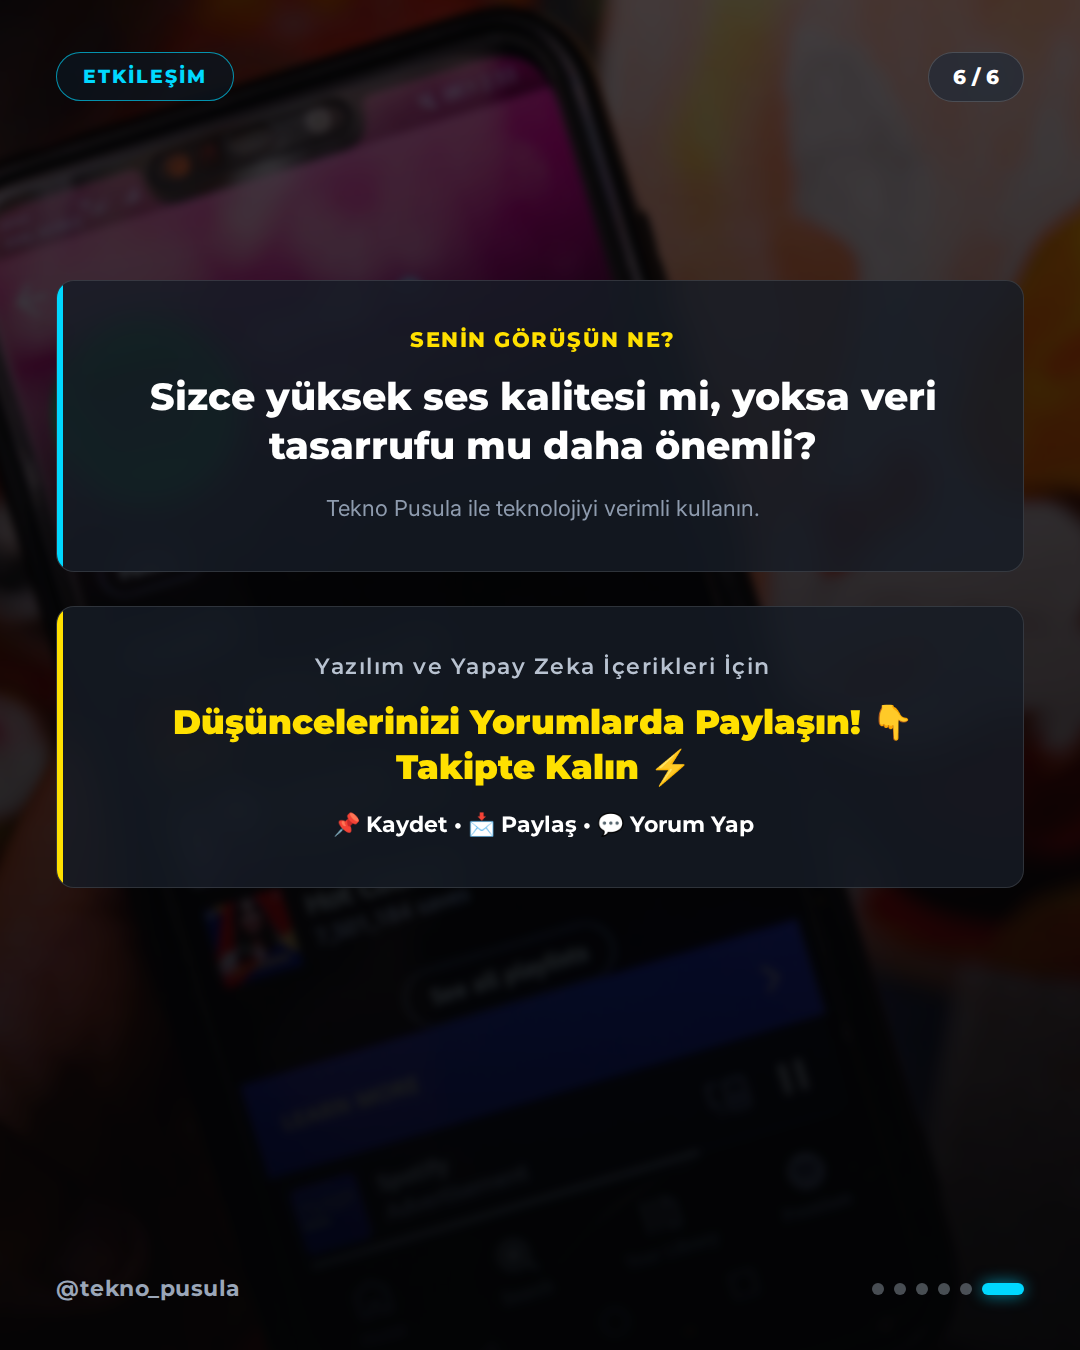
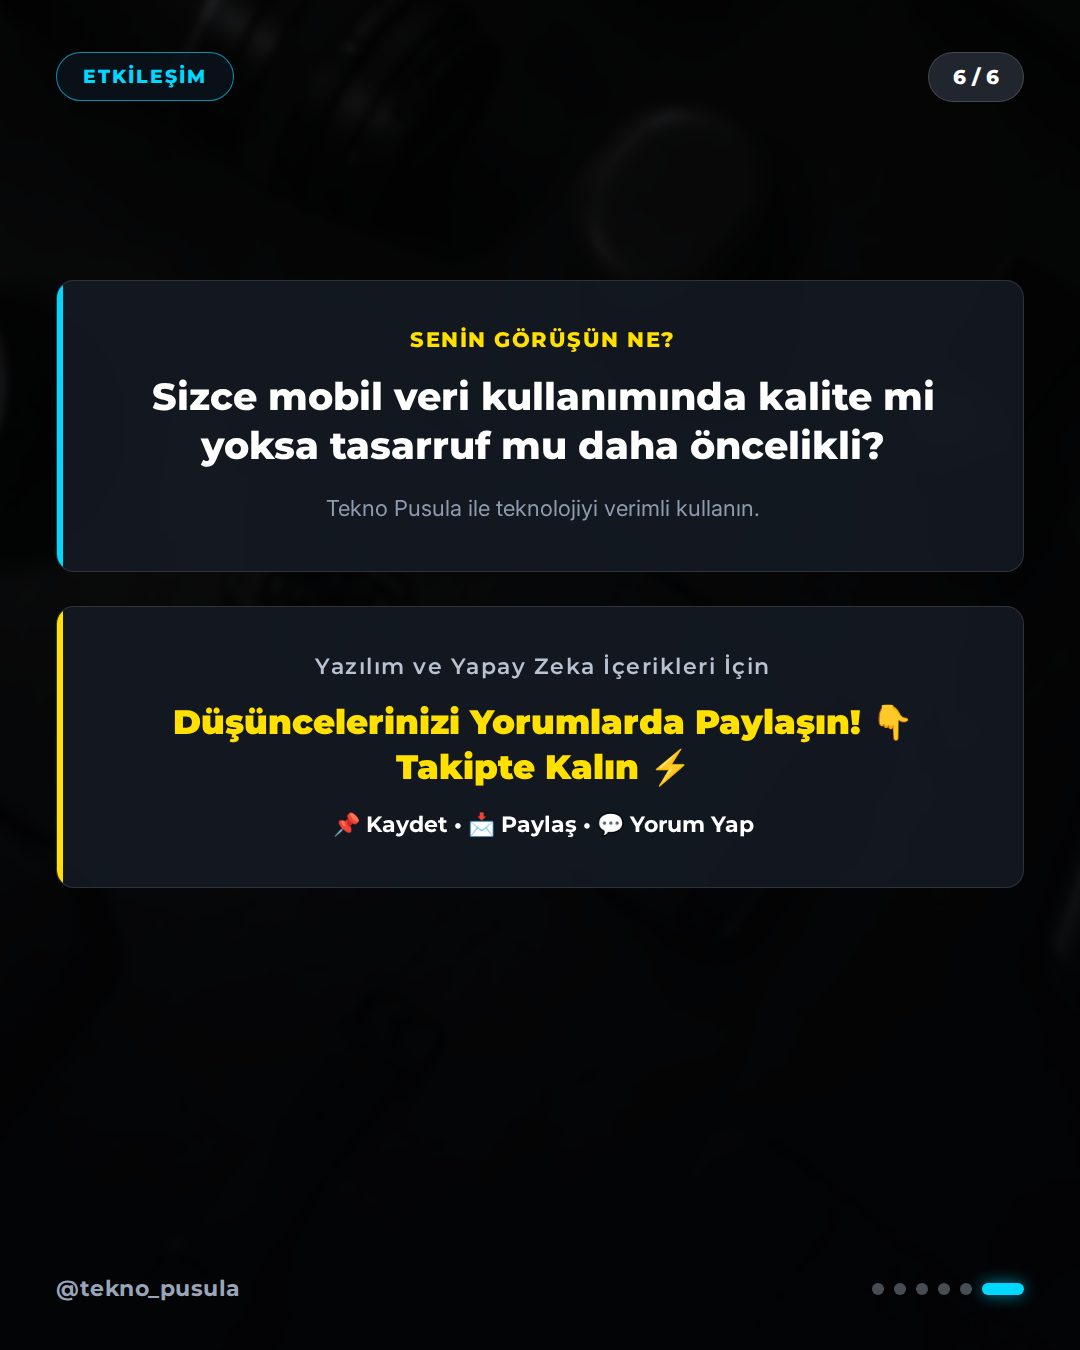
🤖 post: 2026-11-08 09:00 – Streaming vs. downloading: Which uses more battery and data?

diff --git a/output/2026-11-08/01-0900-streaming-vs-downloading-which-uses-more-battery/verification.md b/output/2026-11-08/01-0900-streaming-vs-downloading-which-uses-more-battery/verification.md
@@ -3,54 +3,60 @@
 **Haber:** Streaming vs. downloading: Which uses more battery and data?
 **Canonical URL:** https://www.engadget.com/2306598/streaming-vs-downloading-battery-data-usage/
 **Kaynaklar:** Engadget, TechCrunch, OpenAI News, MIT Technology Review
-**Kontrol zamanı:** 2026-11-08T16:37:50+03:00
+**Kontrol zamanı:** 2026-11-08T16:42:37+03:00
 **Sonuç:** ✅ YAYINLANABİLİR
 
 ---
 
 ## İddia Bazlı Sonuçlar
 
-### 1. Spotify'ın kayıpsız (lossless) indirme seçeneği, oynatma başına saatte 1 GB'a kadar veri tüketebilmektedir.
+### 1. Spotify, lossless indirmelerin saatte 1 GB'a kadar veri tüketebileceğini belirtmektedir.
 - **Karar:** ✅ `supported`
 - **Kanıtlar:**
   - [https://www.engadget.com/2306598/streaming-vs-downloading-battery-data-usage/](https://www.engadget.com/2306598/streaming-vs-downloading-battery-data-usage/)
     > In app settings, Spotify notes that its lossless downloads can consume up to 1 GB per hour of playback
 
-### 2. Spotify'da ses kalitesini kayıpsız seviyeden 'Çok yüksek' (320 kbps) seviyesine düşürmek, veri tüketimini saatte 1 GB'tan 0,14 GB'a indirmektedir.
+### 2. Spotify'da ses kalitesini kayıpsızdan 'Çok yüksek' (320 kbps) seviyesine düşürmek, veri tüketimini saatte 1 GB'tan 0,14 GB'a indirmektedir.
 - **Karar:** ✅ `supported`
 - **Kanıtlar:**
   - [https://www.engadget.com/2306598/streaming-vs-downloading-battery-data-usage/](https://www.engadget.com/2306598/streaming-vs-downloading-battery-data-usage/)
     > Returning to the Spotify example, even scaling back from lossless quality to "Very high" (320 kbps) drops data consumption from 1 GB per hour to just 0.14 GB, according to the music streaming site.
 
-### 3. İndirilen içerikler, düzenli olarak tüketilen medya için genellikle akıştan (streaming) daha verimli bir pil ve veri kullanımı sağlar.
+### 3. İndirilen içerikler, düzenli olarak tüketilen medya için genellikle daha verimli bir seçenektir.
 - **Karar:** ✅ `supported`
 - **Kanıtlar:**
   - [https://www.engadget.com/2306598/streaming-vs-downloading-battery-data-usage/](https://www.engadget.com/2306598/streaming-vs-downloading-battery-data-usage/)
-    > For anything you enjoy on a regular basis, downloads win. While there's going to be an initial (and possibly intense) surge of battery and bandwidth consumption, that's vastly outweighed by the non-existent effort for subsequent plays.
+    > For anything you enjoy on a regular basis, downloads win.
 
-### 4. Video uygulamalarında 480p veya 720p çözünürlükteki videolar, 1080p çözünürlüğe göre daha az veri tüketir.
+### 4. Video uygulamaları genellikle kaliteyi bit hızı yerine çözünürlük seçenekleri üzerinden yönetmektedir.
+- **Karar:** ✅ `supported`
+- **Kanıtlar:**
+  - [https://www.engadget.com/2306598/streaming-vs-downloading-battery-data-usage/](https://www.engadget.com/2306598/streaming-vs-downloading-battery-data-usage/)
+    > Similar principles apply to video apps, although they tend to manage quality via resolution options instead of bitrate.
+
+### 5. 480p veya 720p çözünürlüğündeki bir video, 1080p çözünürlüğündeki bir videoya göre daha az veri tüketmektedir.
 - **Karar:** ✅ `supported`
 - **Kanıtlar:**
   - [https://www.engadget.com/2306598/streaming-vs-downloading-battery-data-usage/](https://www.engadget.com/2306598/streaming-vs-downloading-battery-data-usage/)
     > All else being equal, a 480p or 720p version of a video has a far smaller footprint than 1080p.
 
-### 5. Bazı cihazlarda ve uygulamalarda 4K çözünürlüğünde indirme seçeneği bulunmayabilir.
+### 6. Bazı uygulamalarda ve cihazlarda 4K çözünürlüğünde indirme seçeneği bulunmayabilir.
 - **Karar:** ✅ `supported`
 - **Kanıtlar:**
   - [https://www.engadget.com/2306598/streaming-vs-downloading-battery-data-usage/](https://www.engadget.com/2306598/streaming-vs-downloading-battery-data-usage/)
     > Depending on your app and device, 4K downloads may not even be an option.
 
-### 6. Akış uygulamaları, kullanıcı bilerek kaydetmese bile arka planda temel düzeyde önbellekleme (caching) işlemi gerçekleştirir.
-- **Karar:** ✅ `supported`
-- **Kanıtlar:**
-  - [https://www.engadget.com/2306598/streaming-vs-downloading-battery-data-usage/](https://www.engadget.com/2306598/streaming-vs-downloading-battery-data-usage/)
-    > We say "may" because all streaming apps perform a base amount of caching, whether or not you deliberately save anything.
-
-### 7. Ses kalitesini 160 kbps seviyesine düşürmek, 320 kbps seviyesine kıyasla belirgin bir netlik kaybına yol açar.
+### 7. Ses kalitesinin 160 kbps seviyesine düşürülmesi, ses netliğinde fark edilebilir bir azalmaya neden olmaktadır.
 - **Karar:** ✅ `supported`
 - **Kanıtlar:**
   - [https://www.engadget.com/2306598/streaming-vs-downloading-battery-data-usage/](https://www.engadget.com/2306598/streaming-vs-downloading-battery-data-usage/)
     > While lossless and 320 kbps are virtually indistinguishable in audio, you'll notice a lack of clarity by the time you drop to 160 kbps.
+
+### 8. Akış uygulamaları, kullanıcı bilerek kaydetmese bile arka planda temel düzeyde önbellekleme yapmaktadır.
+- **Karar:** ✅ `supported`
+- **Kanıtlar:**
+  - [https://www.engadget.com/2306598/streaming-vs-downloading-battery-data-usage/](https://www.engadget.com/2306598/streaming-vs-downloading-battery-data-usage/)
+    > We say "may" because all streaming apps perform a base amount of caching, whether or not you deliberately save anything.
 
 ---
 
@@ -58,13 +64,14 @@
 
 | İddia | 1. Tur | 2. Tur | Nihai |
 |-------|--------|--------|-------|
-| Spotify'ın kayıpsız (lossless) indirme seçeneği, oynatma baş | supported | supported | supported |
-| Spotify'da ses kalitesini kayıpsız seviyeden 'Çok yüksek' (3 | supported | supported | supported |
+| Spotify, lossless indirmelerin saatte 1 GB'a kadar veri tüke | supported | supported | supported |
+| Spotify'da ses kalitesini kayıpsızdan 'Çok yüksek' (320 kbps | supported | supported | supported |
 | İndirilen içerikler, düzenli olarak tüketilen medya için gen | supported | supported | supported |
-| Video uygulamalarında 480p veya 720p çözünürlükteki videolar | supported | supported | supported |
-| Bazı cihazlarda ve uygulamalarda 4K çözünürlüğünde indirme s | supported | supported | supported |
+| Video uygulamaları genellikle kaliteyi bit hızı yerine çözün | supported | supported | supported |
+| 480p veya 720p çözünürlüğündeki bir video, 1080p çözünürlüğü | supported | supported | supported |
+| Bazı uygulamalarda ve cihazlarda 4K çözünürlüğünde indirme s | supported | supported | supported |
+| Ses kalitesinin 160 kbps seviyesine düşürülmesi, ses netliği | supported | supported | supported |
 | Akış uygulamaları, kullanıcı bilerek kaydetmese bile arka pl | supported | supported | supported |
-| Ses kalitesini 160 kbps seviyesine düşürmek, 320 kbps seviye | supported | supported | supported |
 
 ## Kaynak Metinleri
 

diff --git a/output/2026-11-08/01-0900-streaming-vs-downloading-which-uses-more-battery/captions.md b/output/2026-11-08/01-0900-streaming-vs-downloading-which-uses-more-battery/captions.md
@@ -2,31 +2,29 @@
 
 ## INSTAGRAM
 
-Spotify'da müzik dinlerken internet paketiniz hızla tükeniyor mu? 🎧 Yüksek ses kalitesi tutkunu musunuz yoksa veri tasarrufu mu önceliğiniz? Spotify'da 'Çok yüksek' (320 kbps) ayarı saatte 0,14 GB veri harcarken, kayıpsız seçeneklerde bu 1 GB'a kadar çıkabiliyor. Veri kullanımını optimize etmek için içerikleri önceden indirmek ve arka plan işlemlerini kontrol etmek büyük fark yaratıyor. Sizce yüksek ses kalitesi mi, yoksa veri tasarrufu mu daha önemli? Yorumlarda buluşalım! Kaynak: Engadget, TechCrunch
+Mobil veriniz su gibi akıp gidiyor mu? 📱 Spotify'da kayıpsız ses kalitesi saatte 1 GB'a kadar veri tüketebilir! Ancak doğru ayarlarla bu tüketimi 0,14 GB'a düşürmek mümkün. Video uygulamalarında ise 1080p yerine 720p veya 480p tercih ederek kotanızı koruyabilirsiniz. Arka plan önbellekleme süreçlerini de unutmamak gerek. Sizce mobil veri kullanımında kalite mi yoksa tasarruf mu daha öncelikli? Tekno Pusula ile teknolojiyi verimli kullanın. Kaynak: Engadget, TechCrunch
 
-#Spotify #VeriTasarrufu #Teknoloji #DijitalVeri #Müzik #İnternetPaketi #DataUsage #TechTips #TeknoPusula
+#VeriTasarrufu #Spotify #MobilVeri #Teknolojiİpuçları #DijitalYaşam #DataSaving #TechTips #Streaming #TeknoPusula
 
 ## TIKTOK
 
-Spotify'da internetiniz neden hemen bitiyor? 📱 Yüksek ses kalitesi mi, veri tasarrufu mu? İşte bilmeniz gerekenler! 320 kbps ayarı ile veri kullanımınızı yönetmek elinizde. Kaynak: Engadget, TechCrunch
+Spotify'da saatte 1 GB veri harcadığınızı biliyor muydunuz? 😱 Kalite ayarlarını değiştirerek bu tüketimi ciddi oranda düşürebilirsiniz. Video izlerken de çözünürlüğü optimize etmek kotanızı kurtarır. Daha fazla tasarruf için profili takip etmeyi unutmayın! Kaynak: Engadget, TechCrunch
 
-#Spotify #VeriTasarrufu #Teknoloji #İpuçları #DataSaving
+#VeriTasarrufu #Spotifyİpuçları #MobilVeri #Teknoloji #DataSaving
 
 ## X
 
-Spotify'da yüksek ses kalitesi mi, veri tasarrufu mu? 320 kbps ayarı saatte 0,14 GB harcarken, kayıpsız seçeneklerde bu 1 GB'a çıkabiliyor. İçerikleri önceden indirmek en iyi çözüm. Siz hangisini tercih ediyorsunuz? Kaynak: Engadget, TechCrunch
+Spotify'da kayıpsız ses kalitesi saatte 1 GB veri tüketebilir! Ayarları düşürerek veya video çözünürlüğünü optimize ederek mobil verinizi koruyabilirsiniz. Sizce kalite mi, tasarruf mu? Kaynak: Engadget, TechCrunch
 
-#Spotify #Teknoloji
+#VeriTasarrufu #Teknoloji
 
 ## THREADS
 
-Spotify Veri Yönetimi 🎧
+Mobil Veri Tasarrufu Rehberi 📱
 
-Yüksek ses kalitesi mi, veri tasarrufu mu? 320 kbps ayarı saatte 0,14 GB harcarken, kayıpsız seçeneklerde bu 1 GB'a kadar çıkabiliyor. 
+Spotify'da kayıpsız ses kalitesi saatte 1 GB'a kadar veri tüketebilir. Ayarı 'Çok yüksek'ten düşürerek tüketimi 0,14 GB'a çekebilirsiniz. Video uygulamalarında ise 1080p yerine 720p tercih etmek kotanızı korur.
 
-İçerikleri önceden indirmek hem pil hem de veri kullanımı için en verimli yöntem. Arka plan işlemlerini de kontrol etmeyi unutmayın. 
-
-Sizce hangisi daha önemli? 💭
+Sizce mobil veri kullanımında kalite mi yoksa tasarruf mu daha öncelikli? 💭
 
 Kaynak: Engadget, TechCrunch
 
@@ -34,18 +32,18 @@ Kaynak: Engadget, TechCrunch
 
 ## LINKEDIN
 
-Dijital veri yönetimi, günümüzün en kritik yetkinliklerinden biri haline geldi. Spotify gibi popüler platformlarda kullanıcı deneyimi ile veri tüketimi arasındaki dengeyi kurmak, mobil veri paketlerinin verimli kullanımı için oldukça önemli.
+Dijital veri yönetimi, günümüzün en önemli verimlilik konularından biri. Özellikle akış uygulamalarında yapılan küçük ayarlar, hem bireysel hem de kurumsal veri tüketimini optimize etmemize yardımcı oluyor.
 
-Araştırmalar, ses kalitesi ayarlarının (320 kbps vs. kayıpsız) veri tüketiminde 7 kata varan farklar yaratabildiğini gösteriyor. İçeriklerin önceden indirilmesi ve arka plan önbellekleme süreçlerinin yönetilmesi, hem bireysel kullanıcılar hem de veri kotaları için stratejik bir yaklaşım sunuyor.
+Spotify gibi platformlarda kayıpsız ses kalitesi saatte 1 GB'a kadar veri tüketebilirken, doğru yapılandırmalarla bu oran 0,14 GB seviyelerine indirilebiliyor. Benzer şekilde, video içeriklerinde çözünürlük yönetimi, bant genişliği tasarrufu için kritik bir rol oynuyor.
 
-Siz, kullanıcı deneyiminde kaliteyi mi yoksa verimliliği mi önceliklendiriyorsunuz?
+Teknolojiyi verimli kullanmak, sadece maliyet değil, aynı zamanda sürdürülebilir bir dijital deneyim için de gereklidir. Sizin veri tasarrufu konusunda uyguladığınız özel yöntemler var mı?
 
 Kaynak: Engadget, TechCrunch
 
-#DijitalVeri #VeriYönetimi #Teknoloji #KullanıcıDeneyimi #Spotify
+#DijitalDönüşüm #VeriYönetimi #Teknoloji #Verimlilik #DijitalOkuryazarlık
 
 ## FACEBOOK
 
-Spotify'da müzik keyfiniz internet paketinizden çalmasın! 🎧 Yüksek ses kalitesi ile veri tasarrufu arasındaki dengeyi nasıl kuracağınızı biliyor musunuz? 320 kbps ayarı ile veri tüketimini saatte 0,14 GB seviyesine çekmek mümkün. İçerikleri önceden indirmek ve arka plan işlemlerini yönetmek, verinizi korumanın en iyi yolu. Sizce yüksek ses kalitesi mi, yoksa veri tasarrufu mu daha önemli? Kaynak: Engadget, TechCrunch
+Mobil veriniz hızla tükeniyor mu? Spotify ve video uygulamalarında yapacağınız küçük değişikliklerle veri tüketiminizi kontrol altına alabilirsiniz. Spotify'da ses kalitesini optimize etmek veya video çözünürlüğünü 1080p yerine 720p'ye çekmek, kotanızı korumanıza yardımcı olur. Tekno Pusula ile teknolojiyi verimli kullanın. Sizce mobil veri kullanımında kalite mi yoksa tasarruf mu daha öncelikli? Kaynak: Engadget, TechCrunch
 
-#Spotify #VeriTasarrufu #Teknoloji #İpuçları #TeknoPusula
+#VeriTasarrufu #Spotify #MobilVeri #Teknolojiİpuçları #TeknoPusula
